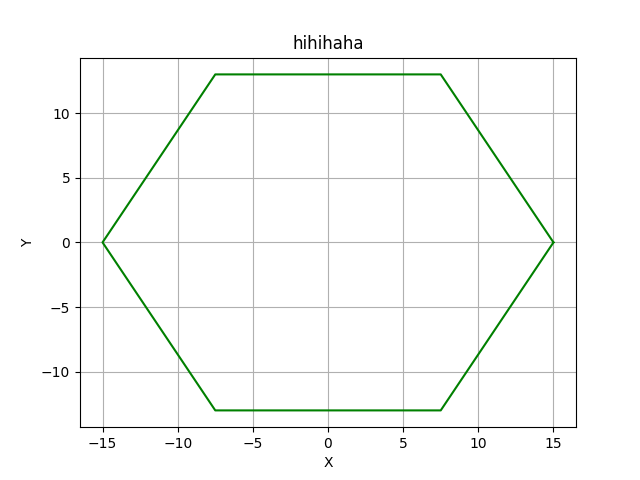
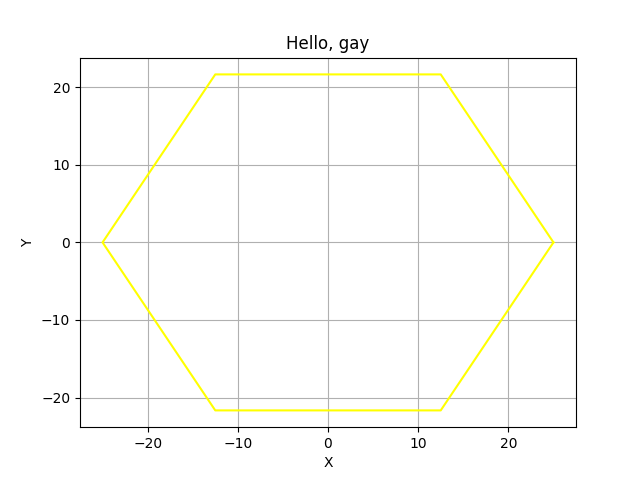
complete task5

diff --git a/IGI/LR4/task5.py b/IGI/LR4/task5.py
@@ -1,0 +1,117 @@
+import numpy as np
+import utility
+
+class MatrixStatisticMixin:
+    def stats(self):
+        mean = np.mean(self.matrix)
+        median = np.median(self.matrix)
+        corcroef = np.corrcoef(self.matrix)
+        variance = np.var(self.matrix)
+        stdev = np.std(self.matrix)
+        print('Mean:', mean)
+        print('Median:', median)
+        print('Corrcoef:', corcroef)
+        print('Variance:', variance)
+        print('Stdev:', stdev)
+
+class MatrixOperations(MatrixStatisticMixin):
+    
+    def __init__(self, n, m):
+        self.n = n
+        self.m = m
+        self.matrix = np.full((n, m), 0)
+    
+    def create_random_matrix(self):
+        gen = utility.random_generator(self.n * self.m)
+        for i in range(self.n):
+            tmp = []
+            for j in range(self.m):
+                self.matrix[i][j] = next(gen)
+                
+    def min_side_diagonal(self):
+        x = 0
+        y = self.m - 1
+        elems = []
+        while x < self.n and y >= 0:
+            elems.append(self.matrix[x][y])
+            x += 1
+            y -= 1
+        return min(elems)
+    
+    def variance_side_diagonal_my(self):
+        x = 0
+        y = self.m - 1
+        elems = []
+        s = 0
+        c = 0
+        while x < self.n and y >= 0:
+            elems.append(self.matrix[x][y])
+            s += self.matrix[x][y]
+            c += 1
+            x += 1
+            y -= 1
+        res = 0
+        sr = s / c
+        print(elems)
+        for x in elems:
+            res += (x - sr) * (x - sr)
+        return np.round(res / c, 2)
+        
+    def variance_side_diagonal(self):
+        x = 0
+        y = self.m - 1
+        elems = []
+        while x < self.n and y >= 0:
+            elems.append(self.matrix[x][y])
+            x += 1
+            y -= 1
+        print(elems)
+        return np.round(np.var(elems), 2)
+    
+    def swap_min_elements(self):
+        """Method for swapping min elements of first and last rows"""
+        if self.matrix is None:
+            print("Matrix is empty!")
+            return
+
+        min_first_column = np.argmin(self.matrix[:, 0])
+        min_last_column = np.argmin(self.matrix[:, -1]) 
+
+        self.matrix[min_first_column, 0], self.matrix[min_last_column, -1] = self.matrix[min_last_column, -1], self.matrix[min_first_column, 0]
+
+    
+    def __str__(self):
+        return str(self.matrix)
+
+
+def main():
+    
+    while True:
+        print('1 - create matrix')
+        print('2 - min on side diagonal')
+        print('3 - variance on side diagonal numpy')
+        print('4 - variance on side diagonal my')
+        print('5 - statistic')
+        print('6 - swap min elements of first and last rows')
+        t = utility.get_int_from_input('option')
+        if t == 1:
+            n = utility.get_int_from_input('N')
+            m = utility.get_int_from_input('M')
+            matrix = MatrixOperations(n, m) 
+            matrix.create_random_matrix()
+            print(matrix)
+        if t == 2:
+            print(matrix.min_side_diagonal())
+        if t == 3:
+            print(matrix.variance_side_diagonal())
+        if t == 4:
+            print(matrix.variance_side_diagonal_my())
+        if t == 5:
+            matrix.stats()
+        if t == 6:
+            matrix.swap_min_elements()
+            print(matrix)
+            
+
+if __name__ =="__main__":
+    main()

diff --git a/IGI/LR4/task4.py b/IGI/LR4/task4.py
@@ -49,14 +49,14 @@ class Hexagon(GeometricalFigure):
         plt.show()
         
     def __str__(self):
-        return "{} color {} side {} area {}".format(self.name, self.color.color, self.side, self.area())
+        return "{} color: {} side: {} area: {}".format(self.name, self.color.color, self.side, self.area())
     
 
 def main():
     while True:
         side = utility.get_float_from_input('side')
         color = input('Input color\n')
-        while not color in ['black', 'red', 'blue', 'green']:
+        while not color in ['black', 'red', 'blue', 'green', 'grey', 'yellow']:
             color = input('Input color\n')
         text = input('Input label text\n')
         hex = Hexagon(side, color)

diff --git a/IGI/LR4/utility.py b/IGI/LR4/utility.py
@@ -1,4 +1,4 @@
-from random import uniform
+import random
 
 def is_float(x) -> bool:
     """Check if number is float"""
@@ -46,7 +46,7 @@ def get_list_of_floats_from_keyboard(n:int) -> list[float]:
 def random_generator(n:int):
     """Return random float number from -50 to 50"""
     for i in range(n):
-        yield uniform(-50, 50)
+        yield random.randint(-50, 50)
 
 def get_list_random(n:int) -> list[float]:
     """Return list with random items with lenght n"""
